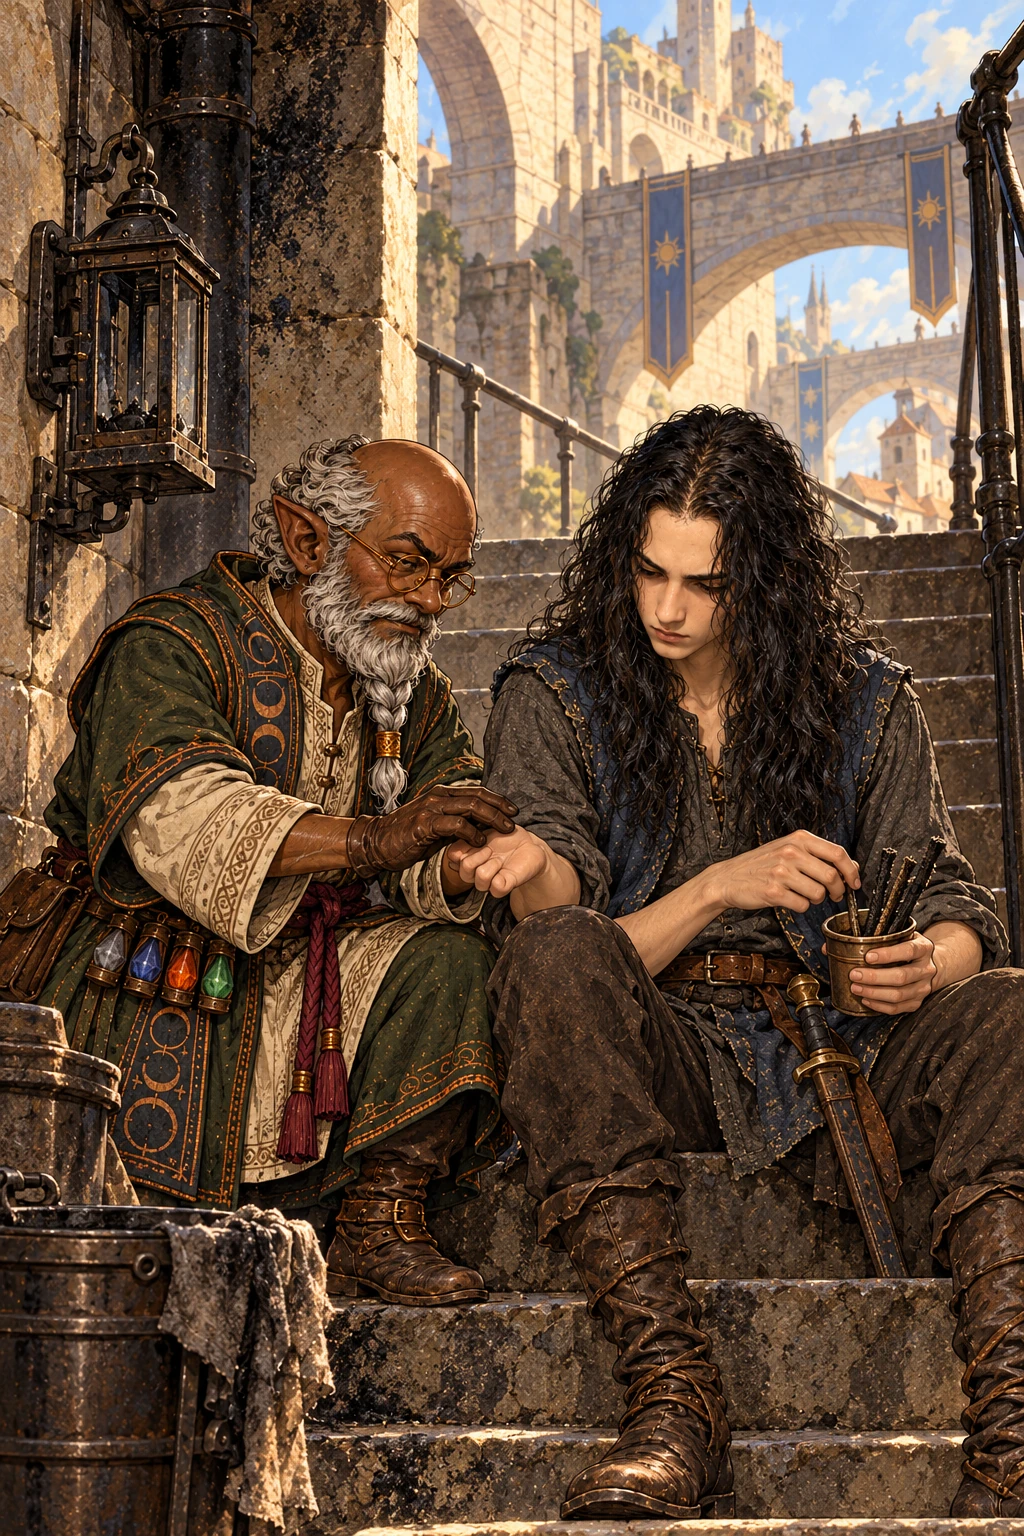
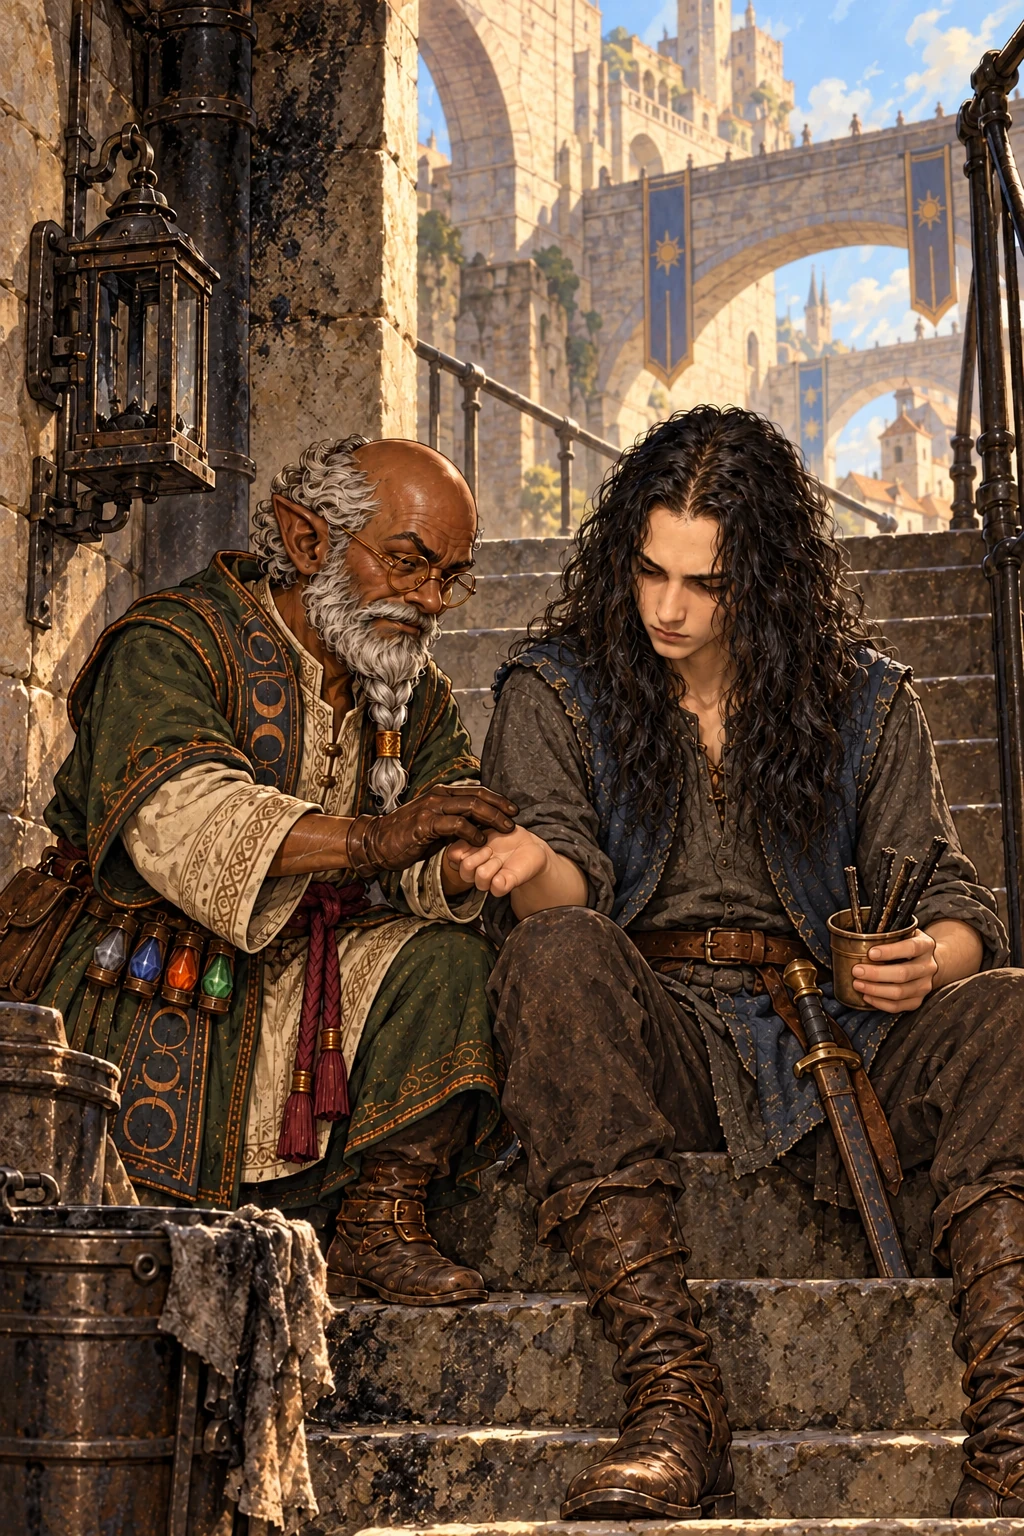
Corrige baloes do arco 8 e anatomia de Ilyan na pagina 1147

diff --git a/reader/templates/reader/medieval_read.html b/reader/templates/reader/medieval_read.html
@@ -10,7 +10,7 @@
   <div class="twilight-page-progress" role="progressbar" aria-label="Leitura da HQ" aria-valuenow="{{ page.number }}" aria-valuemin="1" aria-valuemax="{{ last_page }}"><span style="width:{% widthratio page.number last_page 100 %}%"></span></div>
   <article class="twilight-comic" aria-label="{{ page.title }}">
     {% if page.number > 25 %}<div class="twilight-page-scroll"><figure class="twilight-page-stage twilight-panel-dialogue{% if page.number >= 150 %} twilight-page-stage--wide{% endif %}{% if page.number >= 190 and page.number < 451 %} twilight-page-stage--direct-tails{% endif %}" data-page-number="{{ page.number }}" aria-label="{{ page.title }}">
-      <img class="twilight-full-art" src="{% static page_art %}{% if page.number == 32 %}?v=anatomy-2{% elif page.number == 114 %}?v=hand-2{% elif page.number == 384 %}?v=cart-pose-3{% elif page.number == 532 %}?v=assistant-pose-2{% elif page.number == 535 or page.number == 540 or page.number == 542 %}?v=anatomy-3{% elif page.number == 566 or page.number == 567 or page.number == 569 or page.number == 591 %}?v=balloon-4{% elif page.number == 804 or page.number == 808 or page.number == 809 %}?v=art-correction-1{% elif page.number == 956 %}?v=cast-2{% endif %}" alt="Arte da página {{ page.number }}: {{ page.title }}" fetchpriority="high" width="1024" height="1536">
+      <img class="twilight-full-art" src="{% static page_art %}{% if page.number == 32 %}?v=anatomy-2{% elif page.number == 114 %}?v=hand-2{% elif page.number == 384 %}?v=cart-pose-3{% elif page.number == 532 %}?v=assistant-pose-2{% elif page.number == 535 or page.number == 540 or page.number == 542 %}?v=anatomy-3{% elif page.number == 566 or page.number == 567 or page.number == 569 or page.number == 591 %}?v=balloon-4{% elif page.number == 804 or page.number == 808 or page.number == 809 %}?v=art-correction-1{% elif page.number == 956 %}?v=cast-2{% elif page.number == 1147 %}?v=hands-2{% endif %}" alt="Arte da página {{ page.number }}: {{ page.title }}" fetchpriority="high" width="1024" height="1536">
       {% for line in page.lines %}<p class="twilight-speech twilight-page-speech{% if line.balloon.kind %} twilight-speech--{{ line.balloon.kind }}{% endif %}{% if line.balloon.embedded %} twilight-speech--embedded{% endif %}" style="--bubble-x:{{ line.balloon.x|unlocalize }}%;--bubble-y:{{ line.balloon.y|unlocalize }}%;--bubble-w:{{ line.balloon.w|unlocalize }}%" data-target-x="{{ line.balloon.target_x|unlocalize }}" data-target-y="{{ line.balloon.target_y|unlocalize }}"{% if line.balloon.kind %} data-balloon-kind="{{ line.balloon.kind }}"{% endif %}{% if line.balloon.embedded %} data-embedded="true"{% endif %}{% if line.off_panel %} data-off-panel="true"{% endif %}><strong>{{ line.speaker }}{% if line.off_panel %} · fora do quadro{% endif %}</strong><span>{{ line.text }}</span></p>{% endfor %}
       <svg class="twilight-balloon-tails" aria-hidden="true"></svg>
     </figure></div>{% if page.narration %}<p class="twilight-page-narration">{{ page.narration }}</p>{% endif %}

diff --git a/dist/hqs/estradas-do-crepusculo/ler/1115/index.html b/dist/hqs/estradas-do-crepusculo/ler/1115/index.html
@@ -68,7 +68,7 @@
   <article class="twilight-comic" aria-label="A leitura lacrada">
     <div class="twilight-page-scroll"><figure class="twilight-page-stage twilight-panel-dialogue twilight-page-stage--wide" data-page-number="1115" aria-label="A leitura lacrada">
       <img class="twilight-full-art" src="/static/reader/images/medieval/page-1115.webp" alt="Arte da página 1115: A leitura lacrada" fetchpriority="high" width="1024" height="1536">
-      <p class="twilight-speech twilight-page-speech twilight-speech--normal" style="--bubble-x:3%;--bubble-y:14%;--bubble-w:43%" data-target-x="28" data-target-y="34" data-balloon-kind="normal"><strong>Líria</strong><span>Minha leitura da fratura vai com recibo. Runa não tocará no original.</span></p><p class="twilight-speech twilight-page-speech twilight-speech--normal" style="--bubble-x:54%;--bubble-y:14%;--bubble-w:43%" data-target-x="72" data-target-y="34" data-balloon-kind="normal"><strong>Beren</strong><span>A autoria fica registrada. Farei uma cópia de trabalho.</span></p>
+      <p class="twilight-speech twilight-page-speech twilight-speech--normal" style="--bubble-x:3%;--bubble-y:8%;--bubble-w:43%" data-target-x="28" data-target-y="34" data-balloon-kind="normal"><strong>Líria</strong><span>Minha leitura da fratura vai com recibo. Runa não tocará no original.</span></p><p class="twilight-speech twilight-page-speech twilight-speech--normal" style="--bubble-x:54%;--bubble-y:2%;--bubble-w:43%" data-target-x="72" data-target-y="34" data-balloon-kind="normal"><strong>Beren</strong><span>A autoria fica registrada. Farei uma cópia de trabalho.</span></p>
       <svg class="twilight-balloon-tails" aria-hidden="true"></svg>
     </figure></div>
 

diff --git a/dist/hqs/estradas-do-crepusculo/ler/1132/index.html b/dist/hqs/estradas-do-crepusculo/ler/1132/index.html
@@ -68,7 +68,7 @@
   <article class="twilight-comic" aria-label="A fratura de Líria">
     <div class="twilight-page-scroll"><figure class="twilight-page-stage twilight-panel-dialogue twilight-page-stage--wide" data-page-number="1132" aria-label="A fratura de Líria">
       <img class="twilight-full-art" src="/static/reader/images/medieval/page-1132.webp" alt="Arte da página 1132: A fratura de Líria" fetchpriority="high" width="1024" height="1536">
-      <p class="twilight-speech twilight-page-speech twilight-speech--normal" style="--bubble-x:3%;--bubble-y:14%;--bubble-w:43%" data-target-x="28" data-target-y="34" data-balloon-kind="normal"><strong>Líria</strong><span>Minha fratura é antiga. O calor recente pode agravá-la.</span></p><p class="twilight-speech twilight-page-speech twilight-speech--normal" style="--bubble-x:54%;--bubble-y:14%;--bubble-w:43%" data-target-x="72" data-target-y="34" data-balloon-kind="normal"><strong>Beren</strong><span>Seu crédito fica no relatório. A ofensa pessoal, fora dele.</span></p>
+      <p class="twilight-speech twilight-page-speech twilight-speech--normal" style="--bubble-x:3%;--bubble-y:9%;--bubble-w:43%" data-target-x="28" data-target-y="34" data-balloon-kind="normal"><strong>Líria</strong><span>Minha fratura é antiga. O calor recente pode agravá-la.</span></p><p class="twilight-speech twilight-page-speech twilight-speech--normal" style="--bubble-x:54%;--bubble-y:2%;--bubble-w:43%" data-target-x="72" data-target-y="34" data-balloon-kind="normal"><strong>Beren</strong><span>Seu crédito fica no relatório. A ofensa pessoal, fora dele.</span></p>
       <svg class="twilight-balloon-tails" aria-hidden="true"></svg>
     </figure></div>
 

diff --git a/dist/hqs/estradas-do-crepusculo/ler/1125/index.html b/dist/hqs/estradas-do-crepusculo/ler/1125/index.html
@@ -68,7 +68,7 @@
   <article class="twilight-comic" aria-label="Água emprestada">
     <div class="twilight-page-scroll"><figure class="twilight-page-stage twilight-panel-dialogue twilight-page-stage--wide" data-page-number="1125" aria-label="Água emprestada">
       <img class="twilight-full-art" src="/static/reader/images/medieval/page-1125.webp" alt="Arte da página 1125: Água emprestada" fetchpriority="high" width="1024" height="1536">
-      <p class="twilight-speech twilight-page-speech twilight-speech--normal" style="--bubble-x:3%;--bubble-y:14%;--bubble-w:43%" data-target-x="28" data-target-y="34" data-balloon-kind="normal"><strong>Runa</strong><span>A saída está mais quente. Vou reduzir o fluxo antes de testar de novo.</span></p><p class="twilight-speech twilight-page-speech twilight-speech--normal" style="--bubble-x:54%;--bubble-y:14%;--bubble-w:43%" data-target-x="72" data-target-y="34" data-balloon-kind="normal"><strong>Ysra</strong><span>Anote também a água que deve continuar nas casas.</span></p>
+      <p class="twilight-speech twilight-page-speech twilight-speech--normal" style="--bubble-x:3%;--bubble-y:8%;--bubble-w:43%" data-target-x="28" data-target-y="34" data-balloon-kind="normal"><strong>Runa</strong><span>A saída está mais quente. Vou reduzir o fluxo antes de testar de novo.</span></p><p class="twilight-speech twilight-page-speech twilight-speech--normal" style="--bubble-x:54%;--bubble-y:2%;--bubble-w:43%" data-target-x="72" data-target-y="34" data-balloon-kind="normal"><strong>Ysra</strong><span>Anote também a água que deve continuar nas casas.</span></p>
       <svg class="twilight-balloon-tails" aria-hidden="true"></svg>
     </figure></div>
 

diff --git a/dist/hqs/estradas-do-crepusculo/ler/1126/index.html b/dist/hqs/estradas-do-crepusculo/ler/1126/index.html
@@ -68,7 +68,7 @@
   <article class="twilight-comic" aria-label="A rajada que não veio">
     <div class="twilight-page-scroll"><figure class="twilight-page-stage twilight-panel-dialogue twilight-page-stage--wide" data-page-number="1126" aria-label="A rajada que não veio">
       <img class="twilight-full-art" src="/static/reader/images/medieval/page-1126.webp" alt="Arte da página 1126: A rajada que não veio" fetchpriority="high" width="1024" height="1536">
-      <p class="twilight-speech twilight-page-speech twilight-speech--normal" style="--bubble-x:3%;--bubble-y:14%;--bubble-w:43%" data-target-x="28" data-target-y="34" data-balloon-kind="normal"><strong>Caio</strong><span>Se eu empurrar, aumento a pressão na placa.</span></p><p class="twilight-speech twilight-page-speech twilight-speech--normal" style="--bubble-x:54%;--bubble-y:14%;--bubble-w:43%" data-target-x="72" data-target-y="34" data-balloon-kind="normal"><strong>Sere</strong><span>Então mede. Não transforma a rajada em prova.</span></p>
+      <p class="twilight-speech twilight-page-speech twilight-speech--normal" style="--bubble-x:3%;--bubble-y:7%;--bubble-w:43%" data-target-x="28" data-target-y="34" data-balloon-kind="normal"><strong>Caio</strong><span>Se eu empurrar, aumento a pressão na placa.</span></p><p class="twilight-speech twilight-page-speech twilight-speech--normal" style="--bubble-x:54%;--bubble-y:7%;--bubble-w:43%" data-target-x="72" data-target-y="34" data-balloon-kind="normal"><strong>Sere</strong><span>Então mede. Não transforma a rajada em prova.</span></p>
       <svg class="twilight-balloon-tails" aria-hidden="true"></svg>
     </figure></div>
 

diff --git a/dist/hqs/estradas-do-crepusculo/ler/1160/index.html b/dist/hqs/estradas-do-crepusculo/ler/1160/index.html
@@ -68,7 +68,7 @@
   <article class="twilight-comic" aria-label="Cicatriz de ponte">
     <div class="twilight-page-scroll"><figure class="twilight-page-stage twilight-panel-dialogue twilight-page-stage--wide" data-page-number="1160" aria-label="Cicatriz de ponte">
       <img class="twilight-full-art" src="/static/reader/images/medieval/page-1160.webp" alt="Arte da página 1160: Cicatriz de ponte" fetchpriority="high" width="1024" height="1536">
-      <p class="twilight-speech twilight-page-speech twilight-speech--normal" style="--bubble-x:3%;--bubble-y:14%;--bubble-w:43%" data-target-x="28" data-target-y="34" data-balloon-kind="normal"><strong>Tovo</strong><span>Uma placa diferente não faz a ponte menor.</span></p><p class="twilight-speech twilight-page-speech twilight-speech--normal" style="--bubble-x:54%;--bubble-y:14%;--bubble-w:43%" data-target-x="72" data-target-y="34" data-balloon-kind="normal"><strong>Runa</strong><span>E um rosto sem marca não conta tudo que aconteceu.</span></p>
+      <p class="twilight-speech twilight-page-speech twilight-speech--normal" style="--bubble-x:3%;--bubble-y:2%;--bubble-w:43%" data-target-x="28" data-target-y="34" data-balloon-kind="normal"><strong>Tovo</strong><span>Uma placa diferente não faz a ponte menor.</span></p><p class="twilight-speech twilight-page-speech twilight-speech--normal" style="--bubble-x:54%;--bubble-y:7%;--bubble-w:43%" data-target-x="72" data-target-y="34" data-balloon-kind="normal"><strong>Runa</strong><span>E um rosto sem marca não conta tudo que aconteceu.</span></p>
       <svg class="twilight-balloon-tails" aria-hidden="true"></svg>
     </figure></div>
 

diff --git a/dist/hqs/estradas-do-crepusculo/ler/1147/index.html b/dist/hqs/estradas-do-crepusculo/ler/1147/index.html
@@ -67,7 +67,7 @@
   <div class="twilight-page-progress" role="progressbar" aria-label="Leitura da HQ" aria-valuenow="1147" aria-valuemin="1" aria-valuemax="1166"><span style="width:98%"></span></div>
   <article class="twilight-comic" aria-label="Três medidas antes da chama">
     <div class="twilight-page-scroll"><figure class="twilight-page-stage twilight-panel-dialogue twilight-page-stage--wide" data-page-number="1147" aria-label="Três medidas antes da chama">
-      <img class="twilight-full-art" src="/static/reader/images/medieval/page-1147.webp" alt="Arte da página 1147: Três medidas antes da chama" fetchpriority="high" width="1024" height="1536">
+      <img class="twilight-full-art" src="/static/reader/images/medieval/page-1147.webp?v=hands-2" alt="Arte da página 1147: Três medidas antes da chama" fetchpriority="high" width="1024" height="1536">
       <p class="twilight-speech twilight-page-speech twilight-speech--normal" style="--bubble-x:3%;--bubble-y:14%;--bubble-w:43%" data-target-x="28" data-target-y="34" data-balloon-kind="normal"><strong>Oru</strong><span>Pavios, pulso e saída da fumaça.</span></p><p class="twilight-speech twilight-page-speech twilight-speech--normal" style="--bubble-x:54%;--bubble-y:14%;--bubble-w:43%" data-target-x="72" data-target-y="34" data-balloon-kind="normal"><strong>Ilyan</strong><span>Uma luz se a lamparina apagar. Não aquecerei a ponte.</span></p>
       <svg class="twilight-balloon-tails" aria-hidden="true"></svg>
     </figure></div>

diff --git a/reader/tests/test_medieval.py b/reader/tests/test_medieval.py
@@ -139,8 +139,11 @@ def test_arc_eight_continuation_follows_book_and_speaker_positions():
     for page in pages:
         expected = [CANON["characters"][name]["name"].removeprefix("Mestra ") for name in page["cast"][:len(page["lines"])]]
         assert [line["speaker"] for line in page["lines"]] == expected
-        assert all(line["balloon"]["y"] >= 14 or page["number"] == 1146 for line in page["lines"])
-        assert all(line["balloon"]["target_y"] - line["balloon"]["y"] <= 20 or page["number"] == 1146 for line in page["lines"])
+        adjusted_pages = {1115, 1125, 1126, 1132, 1146, 1160}
+        assert all(line["balloon"]["y"] >= 14 or page["number"] in adjusted_pages for line in page["lines"])
+        assert all(line["balloon"]["target_y"] - line["balloon"]["y"] <= 20 or page["number"] in adjusted_pages for line in page["lines"])
+    for number, expected_y in {1115: [8, 2], 1125: [8, 2], 1126: [7, 7], 1132: [9, 2], 1160: [2, 7]}.items():
+        assert [line["balloon"]["y"] for line in PAGES_BY_NUMBER[number]["lines"]] == expected_y
     assert PAGES_BY_NUMBER[1165]["cast"] == ["liria", "runa"]
     assert PAGES_BY_NUMBER[1166]["cast"] == ["ilyan", "runa"]
     assert not PAGES_BY_NUMBER[1110]["lines"]
